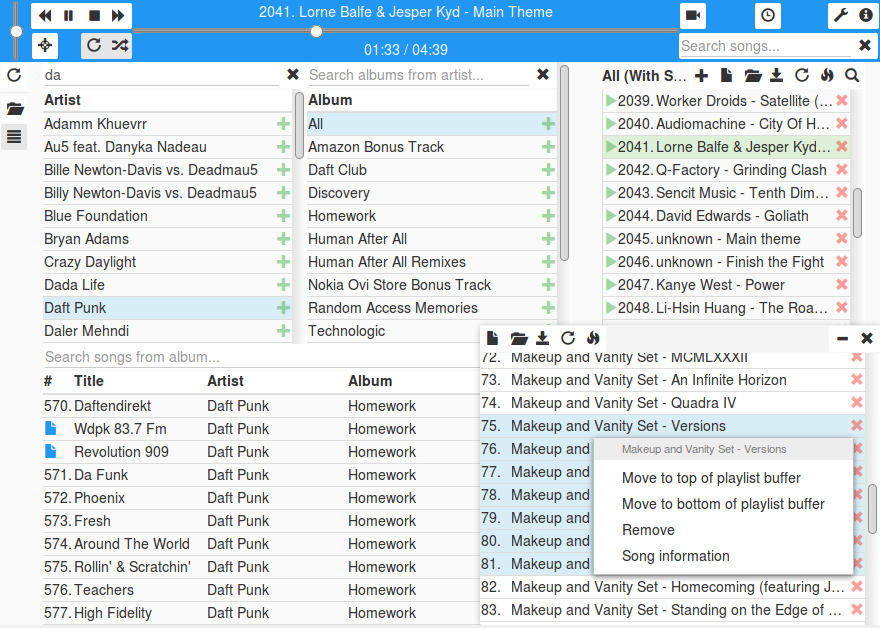
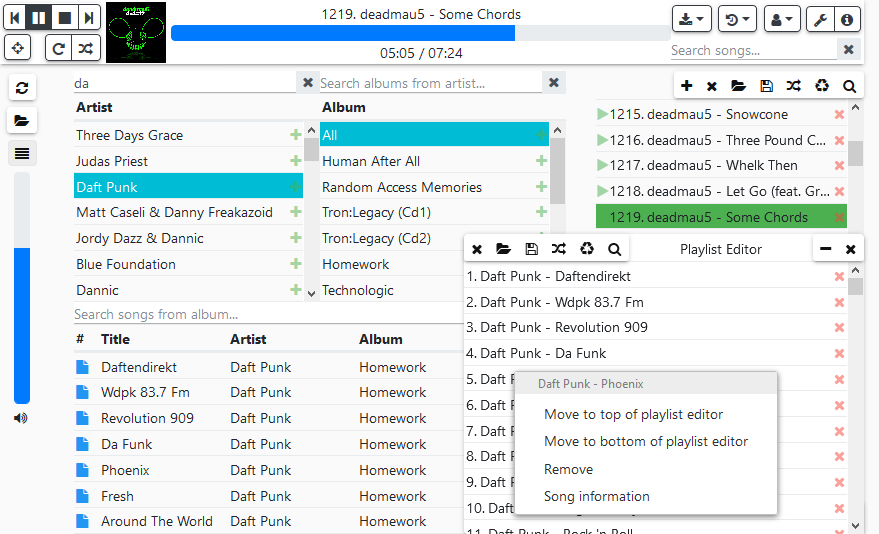
more migration fixes
Update screenshots

diff --git a/public/css/overwrite.scss b/public/css/overwrite.scss
@@ -1,4 +1,4 @@
-$fixed-header-height: 4rem;
+$fixed-header-height: 3.8rem;
 html {
     overflow-x: hidden; // fixes an issue with context-menus
     overflow-y: hidden; // fixes random bugs that occur with changing the table widths dynamically
@@ -17,6 +17,8 @@ header.navbar {
         -webkit-flex-direction: column;
         flex-direction: column;
         justify-content: space-around;
+        // remove shadow behind button group
+        align-items: baseline;
     }
     #header-middle {
         display: -webkit-box; /* fallback for apple webkit */
@@ -30,7 +32,7 @@ header.navbar {
         #album-art {
             flex: 0;
             height: $fixed-header-height;
-            padding: 0 5px;
+            padding: 0 0.3rem;
         }
         #music-time {
             transition: none;
@@ -155,8 +157,8 @@ main.row {
     }
 }
 #pe { // playlist editor
-    width: 400px;
-    height: 300px;
+    width: 25rem;
+    height: 20rem;
     position: fixed;
     margin-bottom: 0;
     bottom: 0;
@@ -209,19 +211,17 @@ main.row {
     bottom: 0;
     right: 0;
     z-index: 1002; // above floathead
-    background: #404040;
-    color: white;
-    padding: 8px;
+    padding: 0.5rem;
     cursor: default;
 }
 #crossfade {
     width: 100%;
 }
 #downloader {
-    //min-width: 400px;
+    min-width: 25rem;
 
     #downloader-status {
-        min-height: 20px;
+        min-height: 1.5rem;
     }
 }
 #browser-selection {
@@ -238,8 +238,8 @@ main.row {
 }
 #downloader-wrap {
     overflow: auto;
-    height: calc(100vh - 300px);
-    min-height: 100px;
+    height: calc(100vh - 20rem);
+    min-height: 10rem;
 }
 #testing { // unit testing ouput
     width: 400px;
@@ -294,12 +294,20 @@ table.floatThead-table {
 .faded:hover {
     opacity: 1;
 }
+#slwrap, #library-artists-wrap, #library-albums-wrap, #library-songs-wrap {
+    // an odd problem with webkit will at first make the element
+    // the same size as the parent has that has a scrollbar, instead
+    // of making it parentWidth-scrollbarWidth, when set at bootstrap's
+    // 100%, until resizing the browser.
+    // This is used to work around that issue.
+    display: flex;
+}
 .nowrap, .song-list-icons, .playlist-song-list-icons {
     white-space:nowrap;
 }
 .song-list-icons {
-    // slightly less jarring when there there is an init width
-    min-width: 25px;
+    // slightly less jarring for songs by themselves
+    min-width: 1.5rem;
 }
 .fixed-table {
     /* magic */
@@ -368,6 +376,7 @@ table.floatThead-table {
     display: -webkit-box; /* fallback for apple webkit */
     display: flex;
     justify-content: space-between;
+    align-self: stretch;
 }
 .main-link {
     flex: 1;
@@ -448,7 +457,6 @@ table.table-header-fixed {
         width: 100%;
     }
     #browser, #playlist, #library {
-        margin-top: 16px;
         // had weird issues with just "height: 500px"
         max-height: $item-heights;
         min-height: $item-heights;
@@ -482,4 +490,25 @@ table.table-header-fixed {
         height: $item-heights/2;
         align-self: flex-start;
     }
+    #downloader {
+        min-width: auto;
+    }
+}
+
+@media screen and (-webkit-min-device-pixel-ratio:0) {
+    // (1)
+    // In bootstrap4, they removed the min-height in navbars. This issue
+    // only effects webkit.
+    // The height is 0 when the scrollbar for the browser or playlist
+    // shows up. This is used to work around this.
+    // Note: in thin-vars.scss, this gets set to a smaller value
+    .pages {
+        min-height: 3rem;
+    }
+}
+
+// See https://github.com/twbs/bootstrap/issues/23553
+.dropdown-menu.dropdown-menu-right {
+    right: 0;
+    left: auto;
 }

diff --git a/src/libraryalbums.js b/src/libraryalbums.js
@@ -39,7 +39,7 @@ return {
                 addClass   = '';
 
             if (!albumUse)
-                addClass = 'info';
+                addClass = 'bg-info text-light';
 
             // All row
             html += '<tr class="context-menu gen album library-artist-all ' + addClass + '" data-artist="' + artist + '" title="All"><td>' + tableStart + 'All' + tableEnd + '</td><td class="song-list-icons text-right"><i class="album-add faded text-success fa fa-plus" title="Add album to the bottom of the playlist"></i></td></tr>';
@@ -61,7 +61,7 @@ return {
                 var album = files[i].Album;
 
                 if (album == albumUse)
-                    addClass = 'info';
+                    addClass = 'bg-info text-light';
 
                 html += '<tr class="context-menu gen album ' + addClass + '" data-artist="' + artist + '" data-album="' + album + '" title="' + album + '"><td>' + tableStart + album + tableEnd + '</td><td class="song-list-icons text-right"><i class="album-add faded text-success fa fa-plus" title="Add album to the bottom of the playlist"></i></td></tr>';
                 addClass = '';

diff --git a/public/js/jquery-multiselect.js b/public/js/jquery-multiselect.js
@@ -96,7 +96,10 @@
                     self.last = $(this);
                 }
 
-                $.isFunction(callback) && callback($(options.selector + '.' + actcls, scope), e);
+                if ($.isFunction(callback)) {
+                  var split = actcls.split(" ");
+                  callback($(options.selector + '.' + split.join("."), scope), e);
+                }
             });
 
             /**
@@ -109,6 +112,7 @@
                         return;
                     }
                 }
+
                 if (deselect) {
                     scope.find(options.selector).each(function () {
                         if (!self.checkStatics($(this))) {
@@ -116,7 +120,11 @@
                         }
                     });
                 }
-                $.isFunction(callback) && callback($(options.selector + '.' + actcls, scope), e);
+
+                if ($.isFunction(callback)) {
+                    var split = actcls.split(" ");
+                    callback($(options.selector + '.' + split.join("."), scope), e);
+                }
             });
 
             /**

diff --git a/src/stored.js b/src/stored.js
@@ -224,7 +224,7 @@ return {
 
                         if (updatedCurrentPlaylist) {
                             var msg = 'You must open the updated playlist for it to update the current playlist.';
-                            mpcp.history.add(msg, 'info');
+                            mpcp.history.add(msg, 'bg-info');
                             toastr.info(msg + '<button title="Reloads the playlist" class="playlist-reload btn btn-default pull-right"><span class="fa fa-repeat"></span></button>', 'Playlist update', {
                                 'closeButton': true,
                                 'positionClass': 'toast-bottom-left',
@@ -375,7 +375,7 @@ return {
     },
 
     initEvents: function () {
-        var rowSelect = mpcp.utils.rowSelect('.playlists-row', 'bg-primary');
+        var rowSelect = mpcp.utils.rowSelect('.playlists-row', 'bg-primary text-light');
 
         rowSelect.on('down', function (ele) {
             var file = $(ele).data().fileid;

diff --git a/src/lazytoast.js b/src/lazytoast.js
@@ -5,7 +5,7 @@ return {
         if (!title) title = 'Info';
         if (!timeout) timeout = 5000;
 
-        if (addHistory) mpcp.history.add(msg, 'info');
+        if (addHistory) mpcp.history.add(msg, 'bg-info');
 
         toastr.info(msg, title, {
             'closeButton': true,
@@ -18,7 +18,7 @@ return {
     error: function (msg, title, timeout, addHistory) {
         if (!title) title = 'Error';
 
-        if (addHistory) mpcp.history.add(msg, 'danger');
+        if (addHistory) mpcp.history.add(msg, 'bg-danger');
 
         toastr.error(msg, title, {
             'closeButton': true,
@@ -33,7 +33,7 @@ return {
         if (!title) title = 'Warning';
         if (!timeout) timeout = 5000;
 
-        if (addHistory) mpcp.history.add(msg, 'warning');
+        if (addHistory) mpcp.history.add(msg, 'bg-warning');
 
         toastr.warning(msg, title, {
             'closeButton': true,

diff --git a/public/css/themes/thin-vars.scss b/public/css/themes/thin-vars.scss
@@ -1,3 +1,5 @@
+$font-size-base: 0.9rem;
+$font-size-sm: 0.75rem;
 $table-cell-padding: 0.1rem;
 $breadcrumb-padding-y: 0.1rem;
 $breadcrumb-padding-x: 0.2rem;
@@ -6,6 +8,26 @@ $nav-link-padding-x: 0.4rem;
 $navbar-padding-y: 0.1rem;
 $navbar-padding-x: 0.2rem;
 $form-group-margin-bottom: 0.5rem;
+$form-check-margin-bottom: 0.1rem;
 $input-height: auto;
 $input-btn-padding-y: 0.2rem;
 $input-btn-padding-x: 0.4rem;
+$dropdown-padding-y: 0.2rem;
+$dropdown-item-padding-x: 1rem;
+$spacer: 0.1rem;
+$modal-header-padding: 10px;
+$modal-inner-padding: 10px;
+
+$h1-font-size: 2rem;
+$h2-font-size: 1.75rem;
+$h3-font-size: 1.5rem;
+$h4-font-size: 1.25rem;
+$h5-font-size: 1.15rem;
+$h6-font-size: 0.9rem;
+
+@media screen and (-webkit-min-device-pixel-ratio:0) {
+    // see (1) in overwrite.scss
+    .pages {
+        min-height: 2rem;
+    }
+}

diff --git a/src/utils.js b/src/utils.js
@@ -569,7 +569,7 @@ return {
         if (deselect === undefined) deselect = true;
 
         $(obj.table).multiSelect({
-            actcls: 'info',
+            actcls: 'bg-info text-light',
             selector: 'tr.gen',
             except: disable,
             deselect: deselect,
@@ -600,7 +600,8 @@ return {
 
         for (var i = 0; i < obj.selected.length; ++i) {
             //console.log(obj.selected[i]);
-            $(obj.selected[i])[0].classList.remove('info');
+            $(obj.selected[i])[0].classList.remove('bg-info');
+            $(obj.selected[i])[0].classList.remove('text-light');
         }
 
         obj.selected = [];

diff --git a/src/libraryartists.js b/src/libraryartists.js
@@ -49,7 +49,7 @@ return {
             for (var i = 0; i < files.length; ++i) {
                 var artist = files[i].Artist;
 
-                if (artist == artistUse) addClass = 'info';
+                if (artist == artistUse) addClass = 'bg-info text-light';
 
                 html += '<tr class="context-menu gen artist ' + addClass + '" data-artist="' + artist + '" title="' + artist + '"><td>' + tableStart + artist + tableEnd + '</td><td class="song-list-icons text-right"><i class="artist-add faded text-success fa fa-plus" title="Add artist to the bottom of the playlist"></i></td></tr>';
                 addClass = '';

diff --git a/src/playlist.js b/src/playlist.js
@@ -160,6 +160,9 @@ return {
                 current = 'gen';
 
             // highlight current song on first load
+            // I would use text-light, but the multiselect is finicky.
+            // It would remove the text-light when clicking on the currently
+            // playing song.
             if (mpcp.player.current && value.Id == mpcp.player.current.Id)
                 current += ' bg-success';
 

diff --git a/src/history.js b/src/history.js
@@ -9,7 +9,7 @@ return {
         if (!type)
             type = '';
         else
-            type = 'bg-' + type;
+            type = 'text-light bg-' + type;
 
         var html = '<tr class="' + type + '"><td>' + mpcp.utils.getTime() + '</td><td>' + title + '</td><td><i class="history-remove faded text-danger fa fa-remove" title="Remove item from history"></i></td></tr>';
         $('#history').prepend(html);

diff --git a/src/downloader.js b/src/downloader.js
@@ -234,7 +234,7 @@ return {
         });
 
         mpcp.downloader.rowSelect =
-            mpcp.utils.rowSelect('.downloader-directory', 'bg-primary', '#downloader-wrap');
+            mpcp.utils.rowSelect('.downloader-directory', 'bg-primary text-light', '#downloader-wrap');
 
         mpcp.downloader.rowSelect.on('enter', function (ele) {
             var dir = $(ele).data().dirid;

diff --git a/public/css/themes/default/vars.scss b/public/css/themes/default/vars.scss
@@ -10,3 +10,4 @@
 @import "../../../../bower_components/bootstrap/scss/_navbar.scss";
 @import "../../../../bower_components/bootstrap/scss/_dropdown.scss";
 @import "../../../../bower_components/bootstrap/scss/_nav.scss";
+@import "../../../../bower_components/bootstrap/scss/_reboot.scss";
